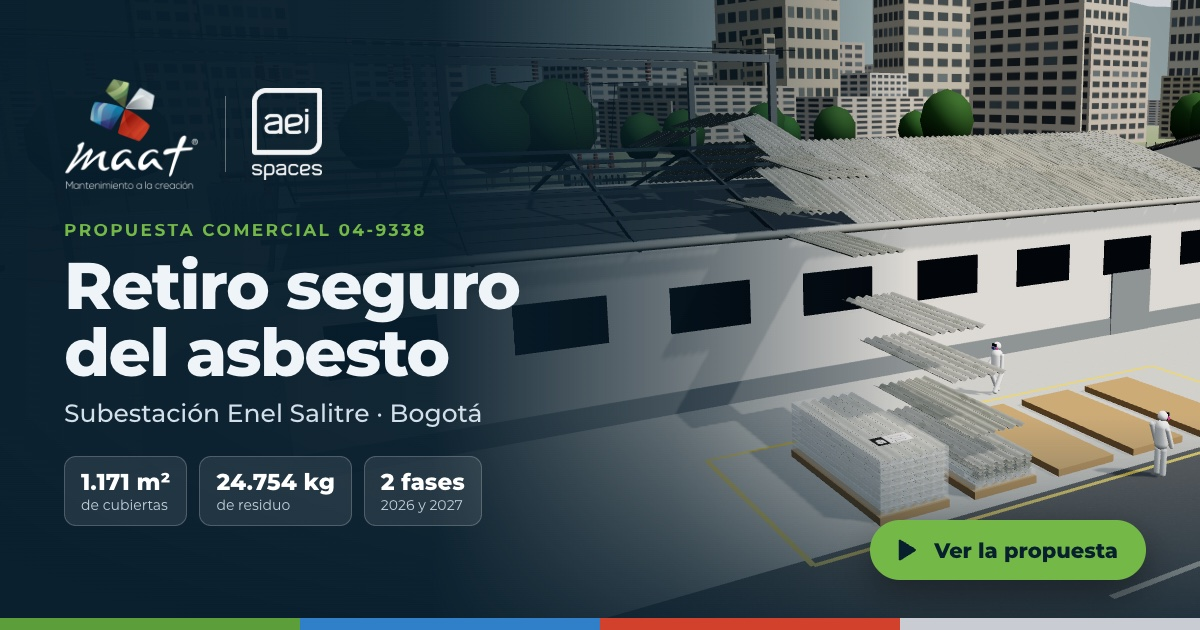
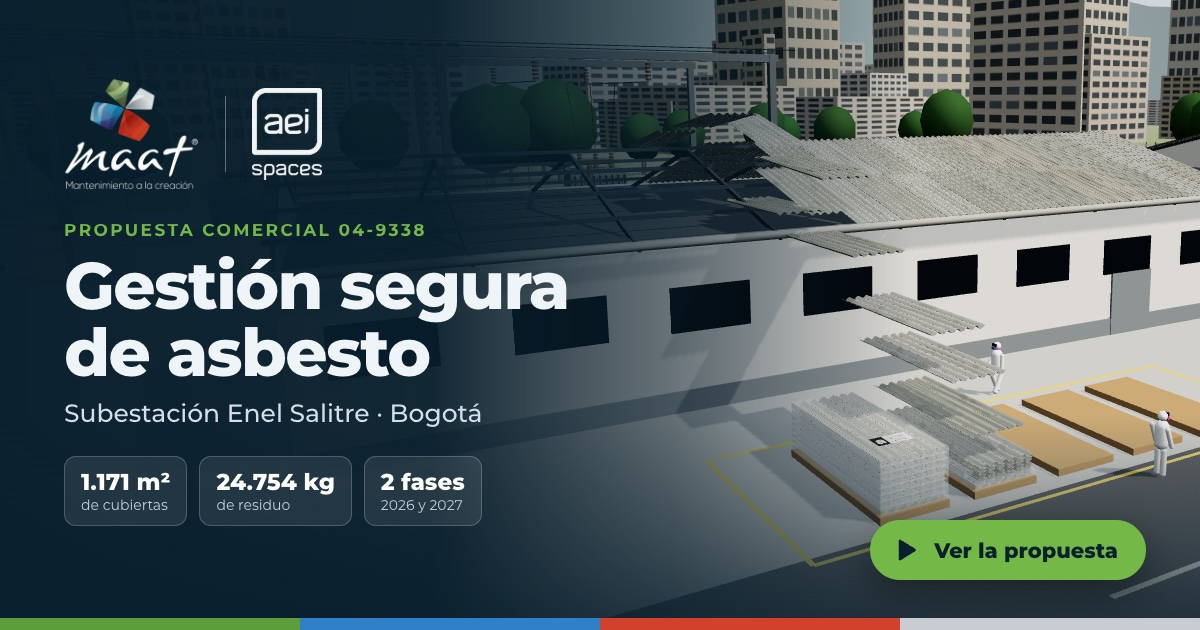
Imagen de vista previa: Gestión segura de asbesto

Changed region(s): [[0.0617, 0.3921, 0.4933, 0.6032]]

diff --git a/aei-enel-salitre/index.html b/aei-enel-salitre/index.html
@@ -16,7 +16,7 @@
 <meta property="og:image:type" content="image/jpeg">
 <meta property="og:image:width" content="1200">
 <meta property="og:image:height" content="630">
-<meta property="og:image:alt" content="Propuesta de Maat para AEI: retiro seguro del asbesto en la subestación Enel Salitre">
+<meta property="og:image:alt" content="Propuesta de Maat para AEI: gestión segura de asbesto en la subestación Enel Salitre">
 <meta name="twitter:card" content="summary_large_image">
 <link rel="preconnect" href="https://fonts.googleapis.com">
 <link rel="preconnect" href="https://fonts.gstatic.com" crossorigin>
@@ -275,7 +275,7 @@ body.og #og{display:flex;position:fixed;inset:0;z-index:20;flex-direction:column
 <div id="og">
   <div class="logos"><img class="lg-maat" data-logo="maatW" alt=""><span class="x"></span><img class="lg-aei" data-logo="aei" alt=""></div>
   <div class="kick">Propuesta comercial 04-9338</div>
-  <h1>Retiro seguro<br>del asbesto</h1>
+  <h1>Gestión segura<br>de asbesto</h1>
   <div class="sub">Subestación Enel Salitre · Bogotá</div>
   <div class="dat"><div><b>1.171 m²</b>de cubiertas</div><div><b>24.754 kg</b>de residuo</div><div><b>2 fases</b>2026 y 2027</div></div>
   <div class="ver"><svg viewBox="0 0 24 24" fill="currentColor"><path d="M8 5.2v13.6a1 1 0 0 0 1.5.86l11-6.8a1 1 0 0 0 0-1.72l-11-6.8A1 1 0 0 0 8 5.2z"/></svg>Ver la propuesta</div>
